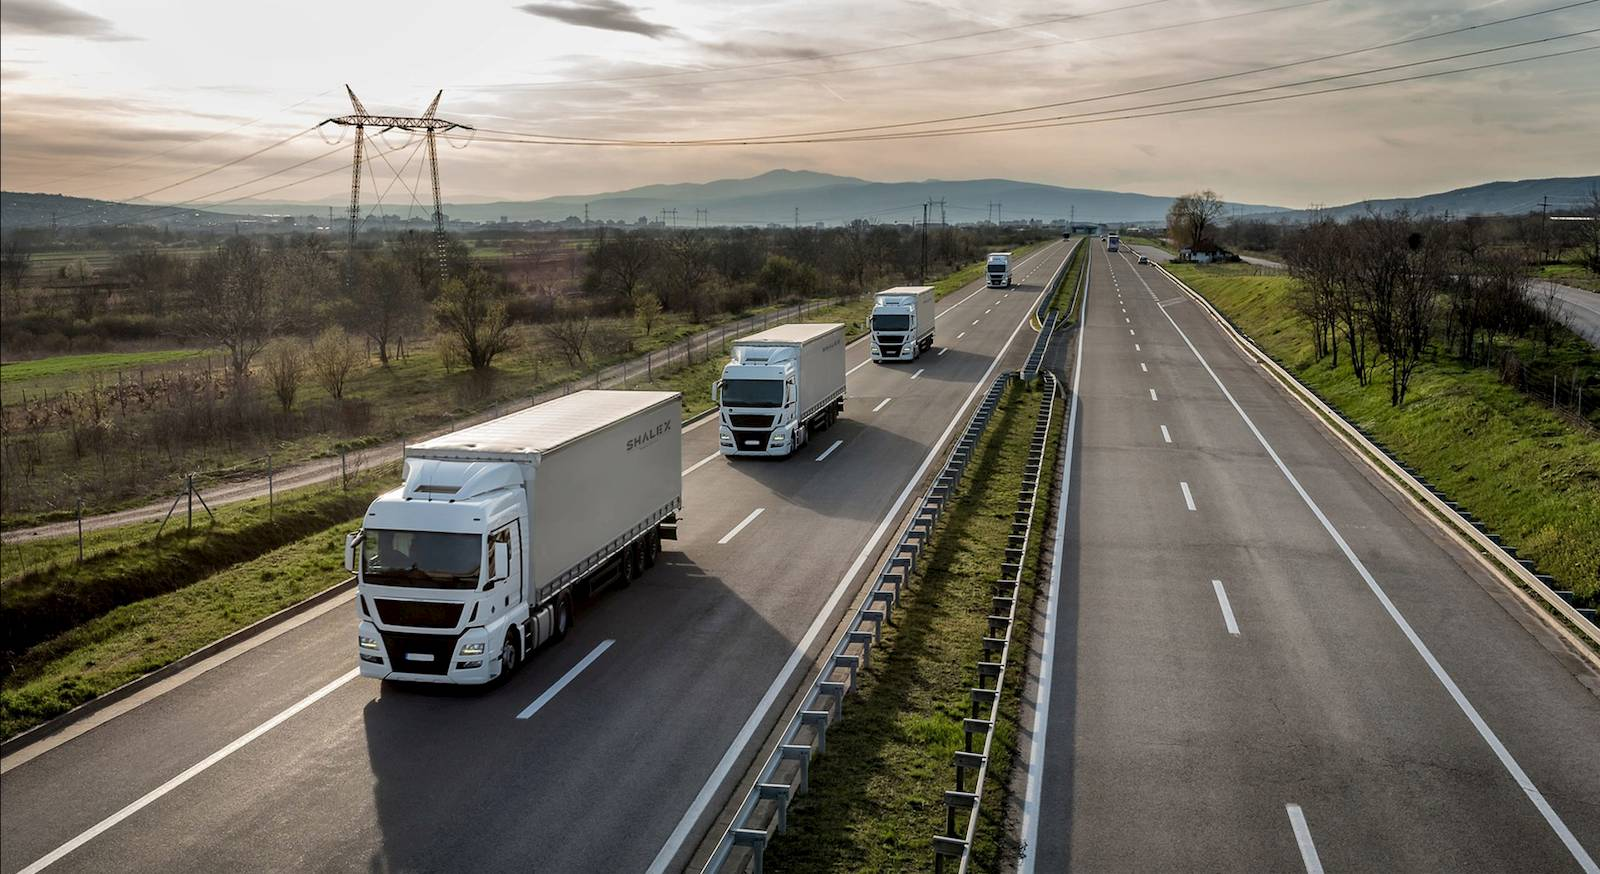
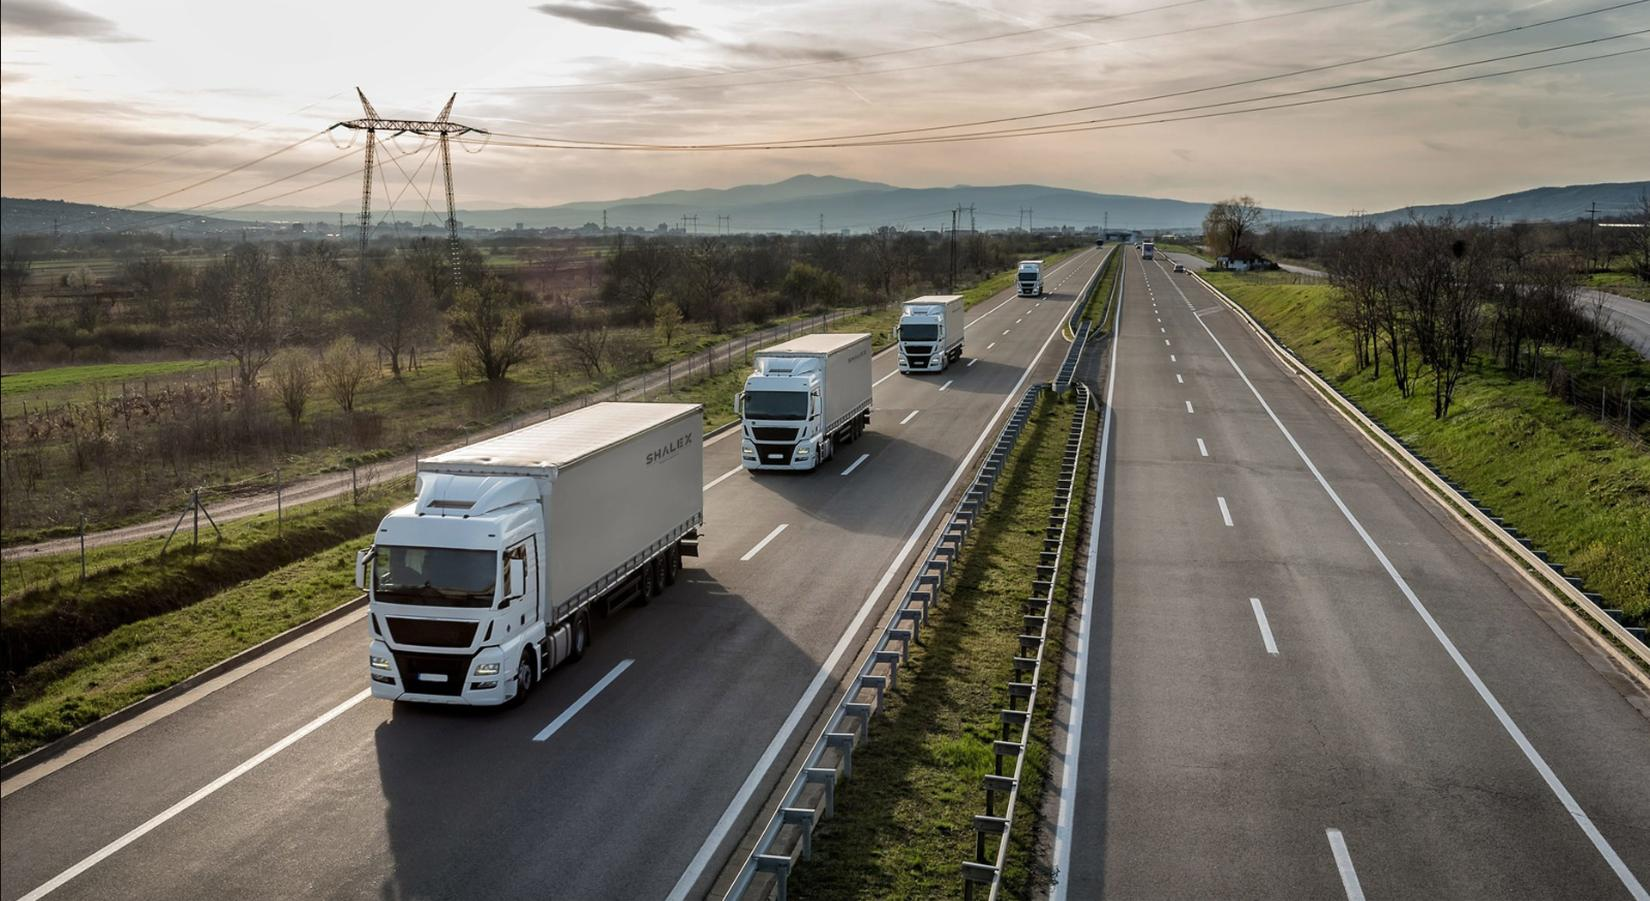
optim hero images

diff --git a/components/Form.vue b/components/Form.vue
@@ -78,7 +78,7 @@ export default {
         method: 'POST',
         body: body
       }
-      fetch('./mail.php', options).then(res => {
+      fetch('../mail.php', options).then(res => {
         if (res.success) {
           this.name = ''
           this.email = ''

diff --git a/mail.php b/mail.php
@@ -22,8 +22,8 @@ $message.="Сообщение: ".striptags($mes);
 $mailheaders = "Content-type:text/html;charset=UTF-8";
 // формат письма html
 
-$mailheaders .= "From: SiteRobot <noreply@siterobot.ru>rn";
-$mailheaders .= "Reply-To: noreply@siterobot.rurn";
+$mailheaders .= "From: SiteRobot <noreply@siterobot.ru> \r \n";
+$mailheaders .= "Reply-To: noreply@siterobot.ru \r \n";
 // емайл отправителя и емайл для ответа
 
 mail($to, $subject, $message, $mailheaders);
